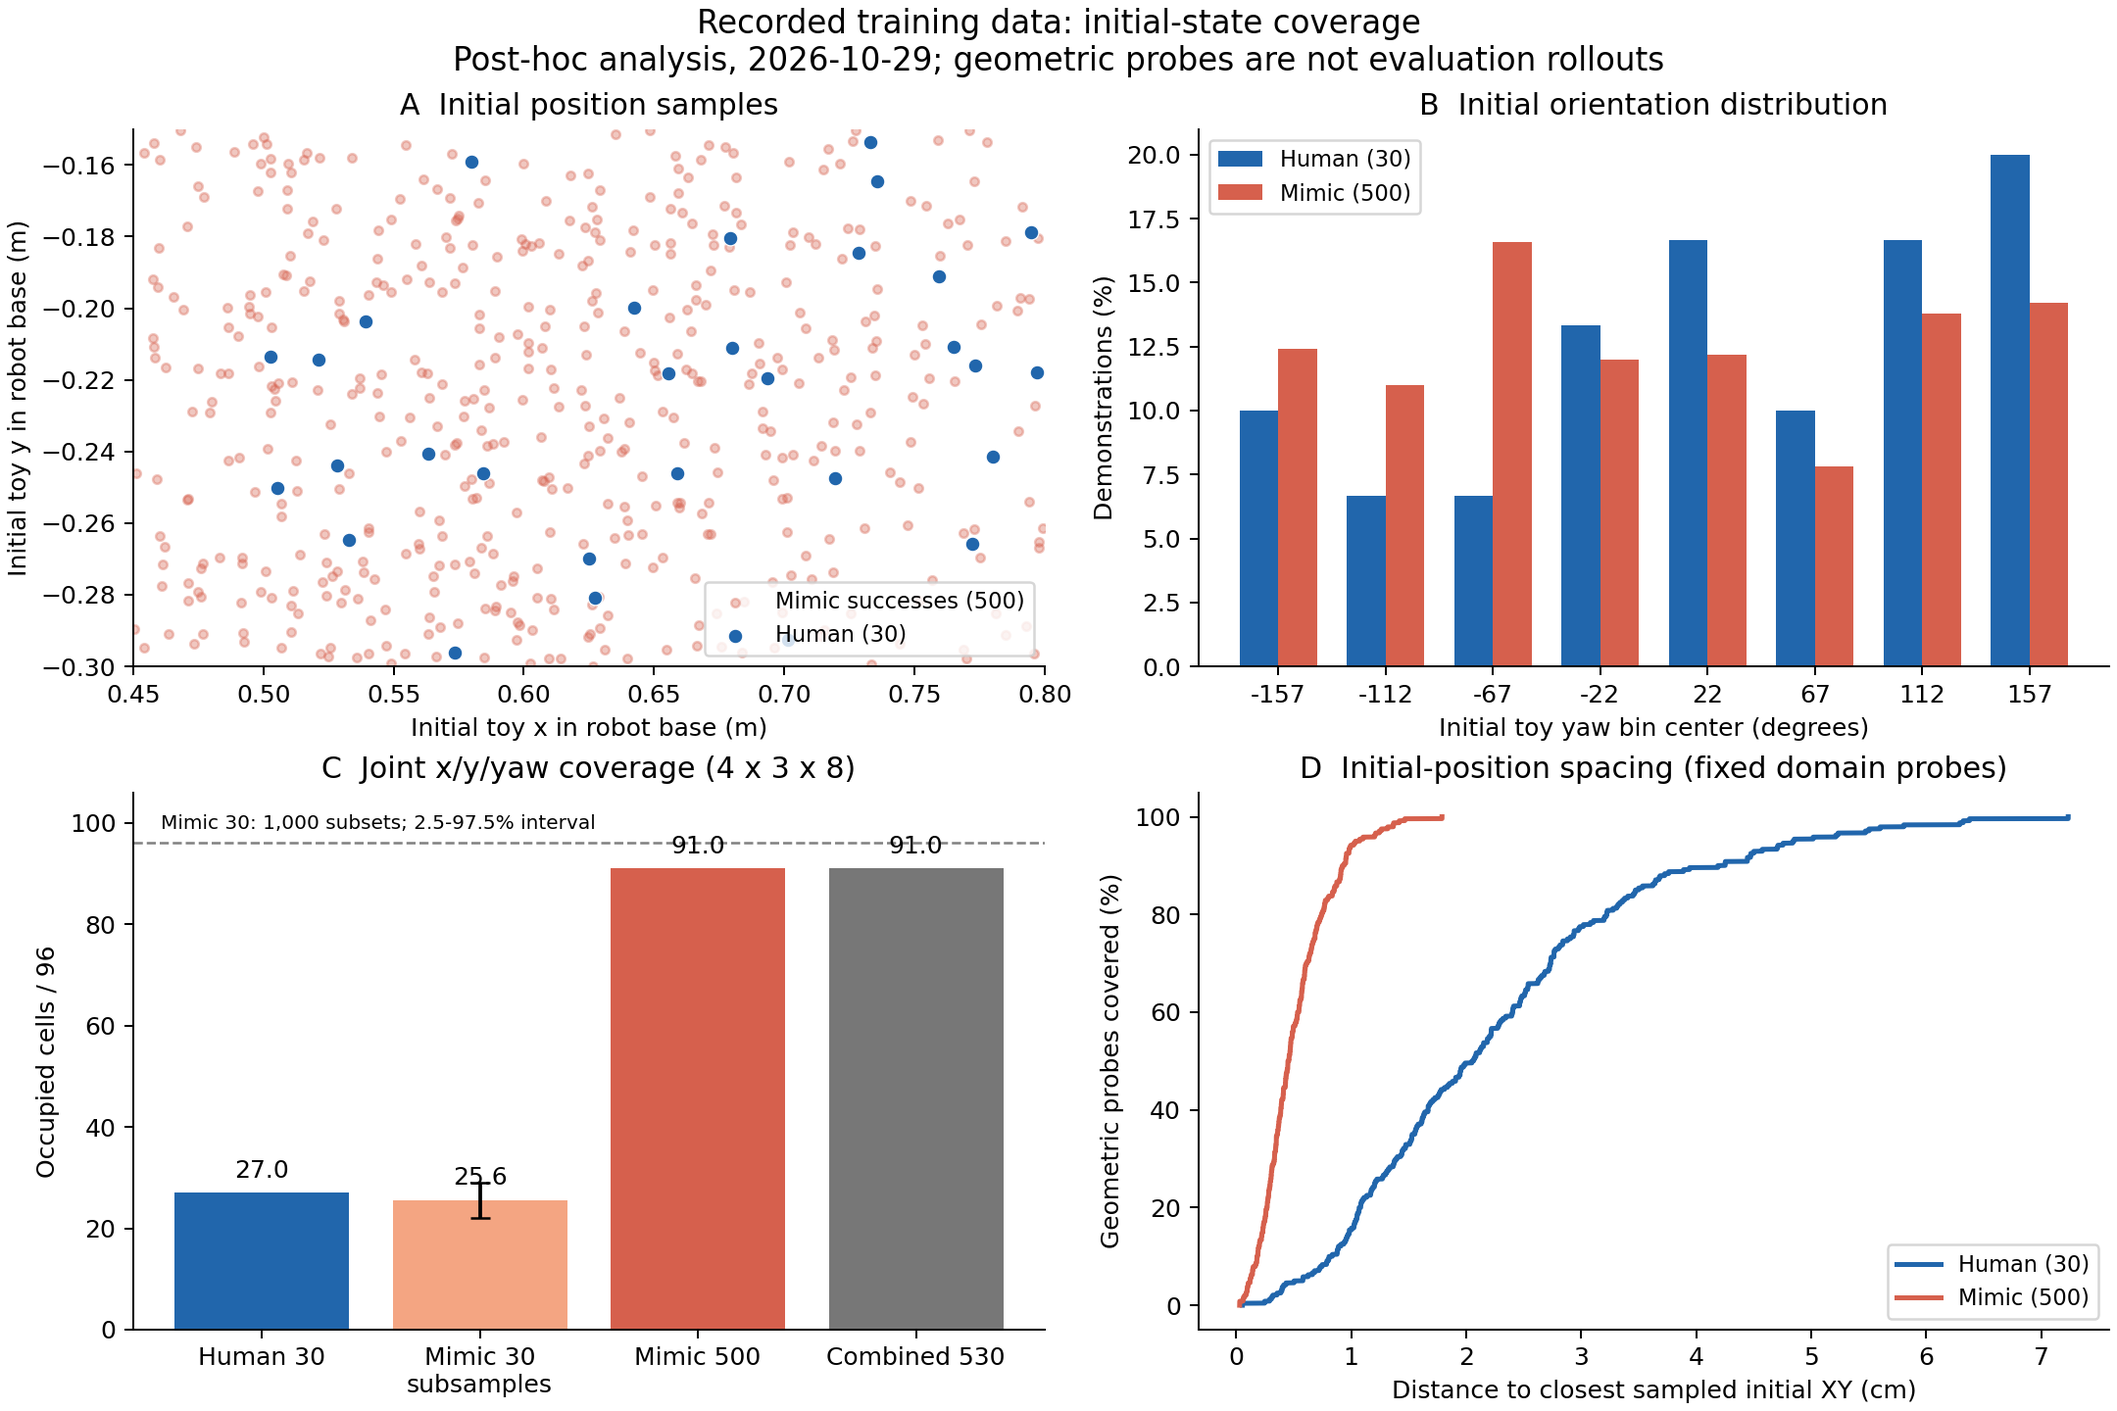
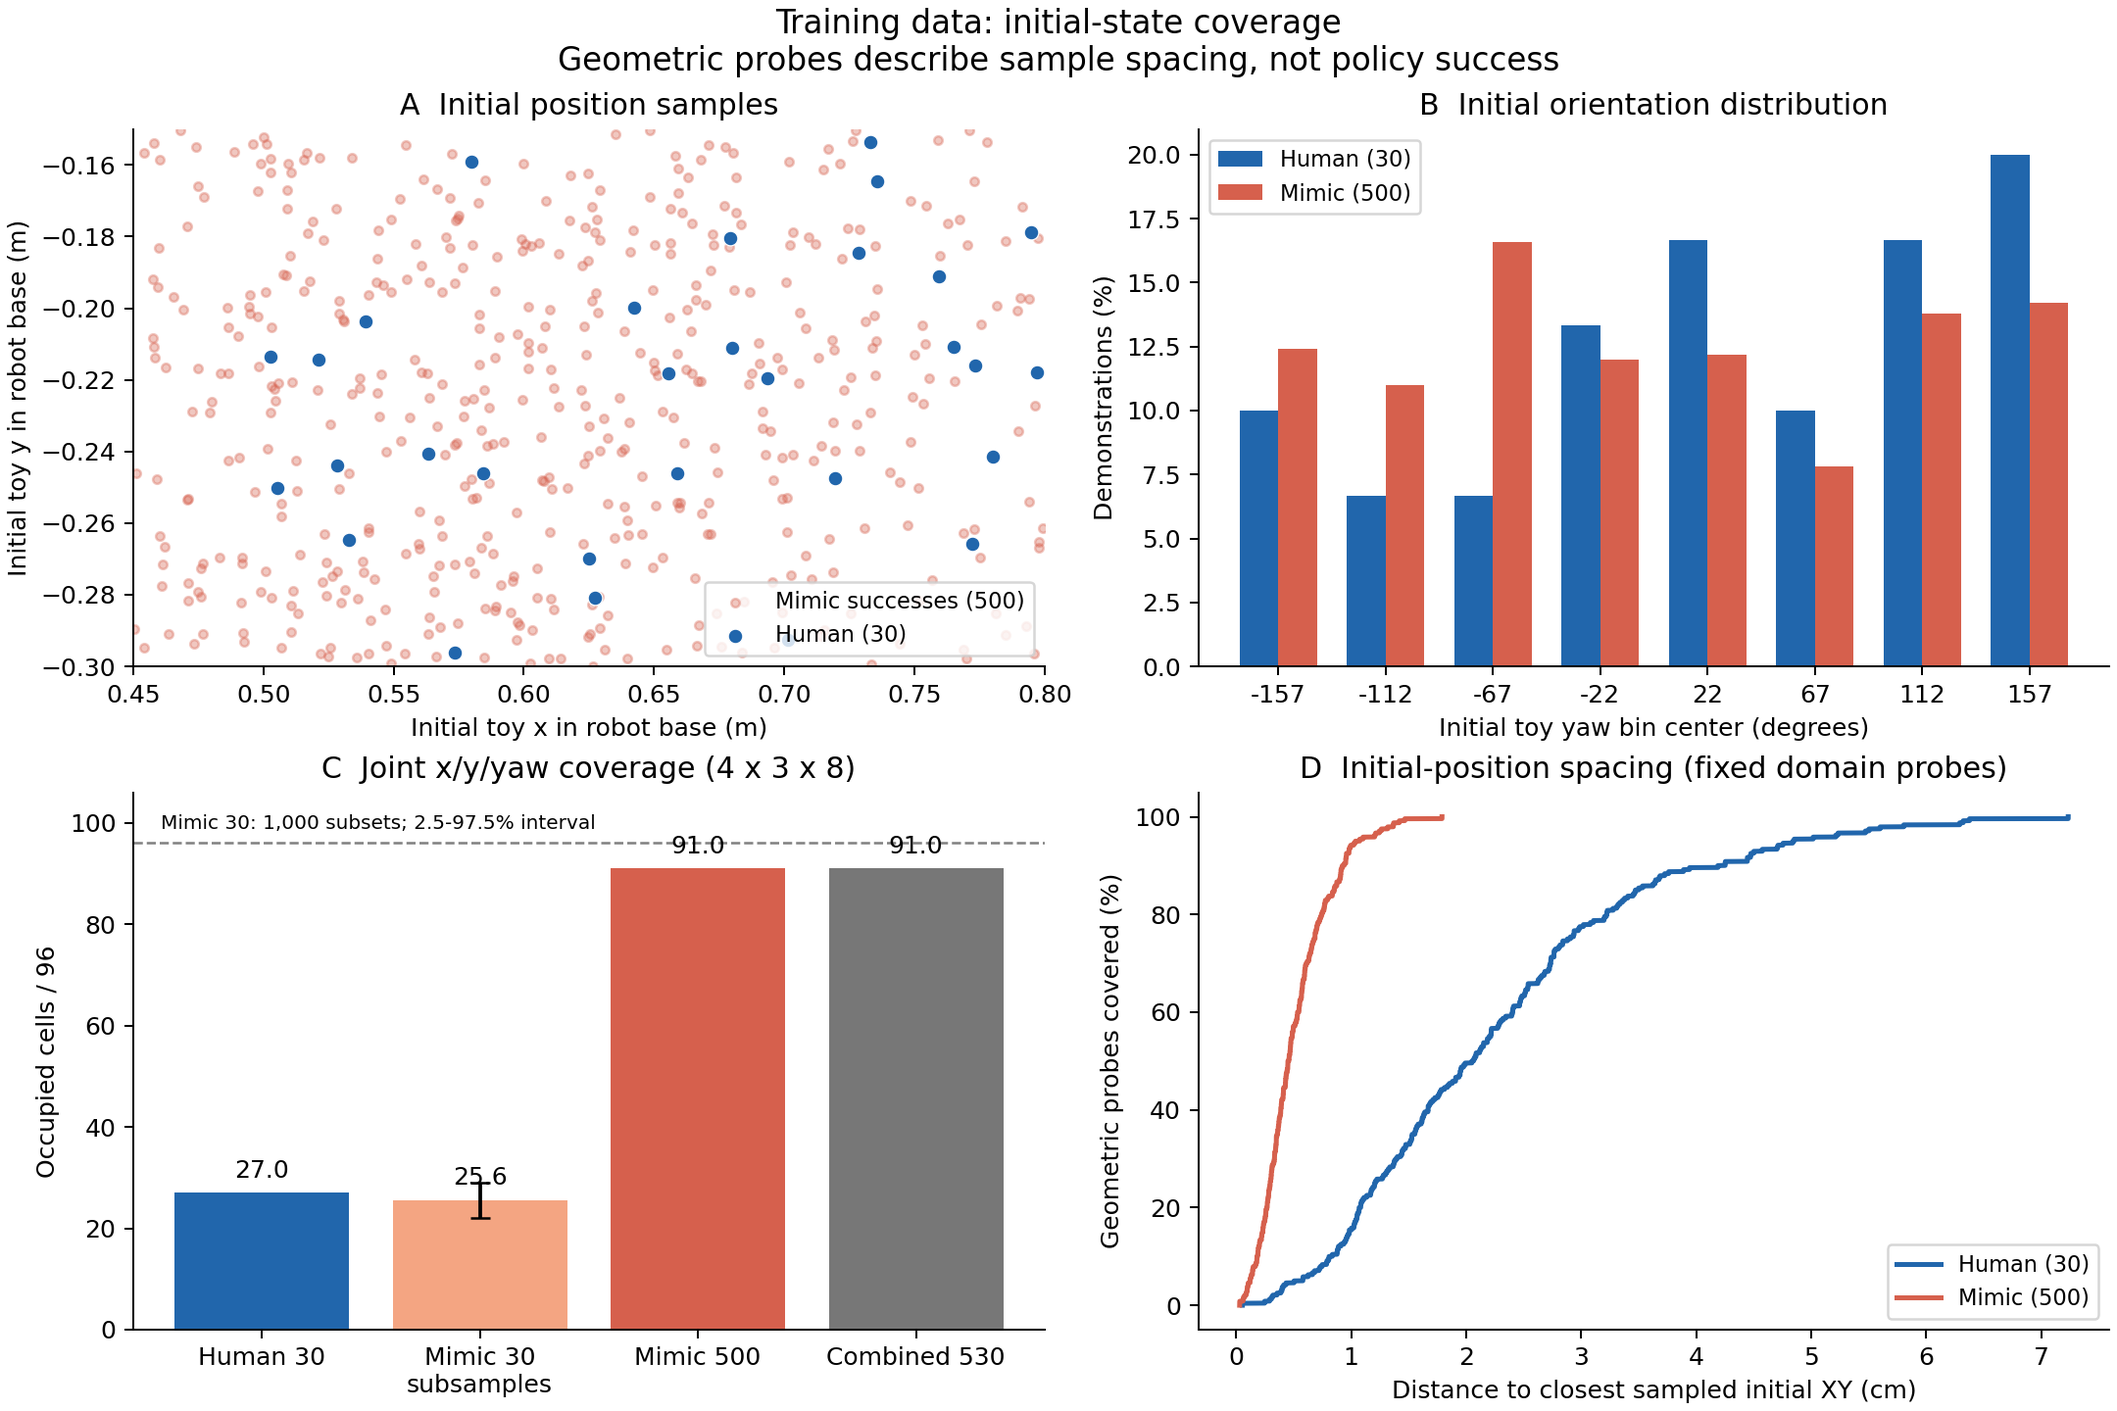
Unify research narrative and remove editorial chronology

Changed region(s): [[0.2171, 0.0, 0.7755, 0.0625]]

diff --git a/human_study/analysis/analyze_demonstrations.py b/human_study/analysis/analyze_demonstrations.py
@@ -266,7 +266,7 @@ def main():
         ax.plot(values,np.arange(1,len(values)+1)/len(values)*100,color=color,label=label,lw=2)
     ax.set(xlabel="Distance to closest sampled initial XY (cm)", ylabel="Geometric probes covered (%)", title="D  Initial-position spacing (fixed domain probes)")
     ax.legend(fontsize=9)
-    fig.suptitle("Recorded training data: initial-state coverage\nPost-hoc analysis, 2026-10-29; geometric probes are not evaluation rollouts", fontsize=13)
+    fig.suptitle("Training data: initial-state coverage\nGeometric probes describe sample spacing, not policy success", fontsize=13)
     fig.savefig(out/"initial_pose_coverage.png",dpi=180)
     plt.close(fig)
 

diff --git a/human_study/video_analysis/README.md b/human_study/video_analysis/README.md
@@ -1,6 +1,6 @@
 # Baseline 녹화 영상 기반 실패 진단
 
-기존 Baseline 녹화 200개에서 사전에 정한 30개 표본을 분석했다. **27개에서는 안정적으로 물체를 들어 올리는 단계에 도달하지 못했다.** 세부적으로 접근 실패 1개, 파지 단계 실패 19개, 접근과 파지의 경계를 영상만으로 구분하기 어려운 사례 7개였다. 시각적 완료는 2개였고, 나머지 1개는 물체를 운반한 뒤 박스 뒤쪽 가장자리에서 놓는 장면이 있으나 최종 위치가 가려져 배치 결과를 확정하지 않았다.
+Baseline 녹화 200개에서 고정 간격으로 선정한 30개 표본을 분석했다. **27개에서는 안정적으로 물체를 들어 올리는 단계에 도달하지 못했다.** 세부적으로 접근 실패 1개, 파지 단계 실패 19개, 접근과 파지의 경계를 영상만으로 구분하기 어려운 사례 7개였다. 시각적 완료는 2개였고, 나머지 1개는 물체를 운반한 뒤 박스 뒤쪽 가장자리에서 놓는 장면이 있으나 최종 위치가 가려져 배치 결과를 확정하지 않았다.
 
 이는 표본 내부의 정성 진단이다. 30개 표본의 완료 비율을 전체 성공률로 보고하지 않는다. 공식 성공률은 별도로 기록된 100회 평가 로그에서 산출한다.
 
@@ -10,12 +10,11 @@
 
 ## 표본 선정과 자료 출처
 
-- 분석일: 2026년 10월 29일.
-- 원본: `IsaacLab_RS/videos/human30_seed101_eval42/`, `human30_seed111_eval42/`의 각 100개 MP4. 새로운 평가나 시뮬레이션은 실행하지 않았다.
-- 선정 규칙: 새 표본을 보기 전에 seed별 trial `[0, 7, 14, 21, 28, 35, 42, 50, 57, 64, 71, 78, 85, 92, 99]`를 고정했다. 전체 trial 구간에 걸친 체계적 표본이며 무작위 추출이 아니다. seed당 15개, 총 30개 파일을 검토했다.
-- 기존 첫 5개씩의 진단과 trial 0 두 개가 겹친다. 이번 통계는 이번 30개만 집계하며 기존 10개를 더해 중복 계산하지 않는다.
+- 원본: `IsaacLab_RS/videos/human30_seed101_eval42/`, `human30_seed111_eval42/`의 각 100개 MP4.
+- 선정 규칙: seed별 trial `[0, 7, 14, 21, 28, 35, 42, 50, 57, 64, 71, 78, 85, 92, 99]`를 사용했다. 전체 trial 구간에 걸친 체계적 표본이며 무작위 추출이 아니다. seed당 15개, 총 30개 파일을 검토했다.
+- 집계 단위: 선택한 영상 파일 하나를 사례 하나로 계산한다. 대표 그림이나 확대 프레임에 같은 영상이 여러 번 제시되어도 중복 집계하지 않는다.
 - 원본 파일 SHA-256 30개는 모두 다르다. 동일한 trial 번호여도 두 학습 seed의 영상이 동일한 파일이라는 뜻은 아니다.
-- 원본 촬영 명령과 당시 모델 출처는 [baseline_audit.json](../results/mimic500_20261028/baseline_audit.json)에 기록되어 있다. 당시 촬영은 `--video`를 사용했다. 공식 성공률 16/100·19/100을 기록한 후속 평가의 `run.json`에는 `video: false`가 명시되어 있다. **촬영 실행과 후속 평가의 trial 번호를 연결하지 않았다.**
+- 원본 촬영 명령과 모델 출처는 [baseline_audit.json](../results/mimic500_20261028/baseline_audit.json)에 기록되어 있다. 촬영 실행은 `--video`를 사용했고, 공식 성공률 16/100·19/100을 집계한 기록 평가의 `run.json`에는 `video: false`가 명시되어 있다. **촬영과 기록 평가는 별도 실행이므로 trial 번호를 연결하지 않는다.**
 - 현재 보존된 영상 디렉터리에는 최종 Mimic 정책의 녹화가 없다. 따라서 영상으로 증강 후 접근·파지 실패가 얼마나 감소했는지는 평가하지 않는다.
 
 각 영상에서 12개 균등 간격 프레임을 추출했다. 시작 프레임이 검은 trial이 있어 첫 표본은 frame 1을 사용했다. 1280×720 원본의 작업 영역 `(x=200, y=250, width=650, height=460)`을 잘라 손·장난감·박스를 확대했다. 빠른 접촉이나 물체 소실이 모호한 5개는 20개 추가 프레임을, 그중 2개는 원래 프레임 간격 또는 원래 해상도로 다시 검토했다. 모든 frame 번호, 시각, 해시와 자르기 범위는 manifest에 보존했다. 영상 길이만으로 성공 또는 실패를 판정하지 않았다.
@@ -44,7 +43,7 @@
 | seed 111 / trial 85 | 15.60초 물체 부근 접촉 표시 → 15.85–16.10초 물체가 박스 앞 테이블로 밀려남 → 이후 빈손 | 손이 물체 근처에 도달하는 것과 안정적 파지는 다르다. 마지막 정렬·접촉 상태에서 작은 오차가 다른 물체 상태로 이어지는 양상이다. |
 | seed 101 / trial 99 | 11.55–11.60초 물체 부근 접촉 → 11.65–11.80초 물체가 손에서 분리되어 테이블 앞쪽으로 빠르게 이동 | 물체가 보이지 않게 된 장면을 성공적인 파지로 오해하지 않도록 원래 20 fps 간격으로 확인했다. |
 | seed 101 / trial 57 | 16.25–19.70초 파지·운반 → 19.95–20.20초 박스 뒤쪽 가장자리에서 놓기 → 박스에 가림 | 배치 실패가 의심되는 반례다. 획득 이전 실패가 모든 실패를 설명한다고 결론내리지 않는다. 최종 위치는 불명으로 남긴다. |
-| seed 101 / trial 64 | 17.55초 들어 올림 → 19.50초 박스 위 운반 → 21.45초 열린 손 아래 물체가 박스 입구 안으로 내려감 | 동일한 Baseline에도 전체 순서를 수행하는 사례가 있다. 공식 성공 여부는 후속 평가의 같은 trial 번호에서 가져오지 않는다. |
+| seed 101 / trial 64 | 17.55초 들어 올림 → 19.50초 박스 위 운반 → 21.45초 열린 손 아래 물체가 박스 입구 안으로 내려감 | 동일한 Baseline에도 전체 순서를 수행하는 사례가 있다. 공식 성공 여부는 별도 기록 평가의 같은 trial 번호에서 가져오지 않는다. |
 
 물체를 밀어내는 순간(seed 111 / trial 85, 14.8–17.0초, 원래 속도):
 

diff --git a/human_study/protocol.md b/human_study/protocol.md
@@ -1,18 +1,18 @@
 # 연구 설계와 판정 기준
 
-학습·평가 실험과 기존 실패 진단을 정리한 문서다. 2026년 10월 29일의 데이터 분포 분석과 확대 영상 검토는 **결과를 얻은 뒤 수행한 사후 분석**으로 구분한다. 사후에 측정한 수치를 실험 전에 알고 있었다는 전제로 해석하지 않는다.
+사람 시범의 행동·상태 분포, Baseline 실패 영상, 증강 전후의 통제 실험을 종합해 원인 가설과 개선 효과를 검토한다.
 
 ## 수집 규칙과 진단 대상
 
 키보드 시범은 접근 → 정렬·그리퍼 회전 → 하강·파지 → 들어 올리기·운반 → 배치의 순서를 기준으로 수집했다. 원본 사람 시범 30개를 두 학습 조건에 동일하게 사용한다. 일관된 동작 순서는 시범 간 행동 편차를 줄이기 위한 수집 원칙이며, 다양한 상대 위치를 포괄하는 데이터 분포와는 구분한다.
 
-실험 당시에는 Baseline의 seed별 trial 0–4, 총 10개를 진단했다. 물체 획득 이전의 실패가 관찰되어 접근·정렬·파지를 우선 문제 구간으로 선정했다. 이후 기존 녹화 전체 구간에서 seed별 15개를 고정 간격으로 선택해 총 30개를 사후 검토했다. 획득 이전 실패 27개, 시각적 완료 2개, 배치 결과 불명 1개를 관찰했다. 두 표본은 일부 중복되므로 40개의 독립 사례로 합산하지 않는다. 단계별 기준과 사례는 [영상 분석](video_analysis/README.md)에 있다.
+Baseline 녹화 전체 구간에서 seed별 15개를 고정 간격으로 선택해 총 30개를 검토했다. 획득 이전 실패 27개, 시각적 완료 2개, 배치 결과 불명 1개를 관찰하여 접근·정렬·파지를 우선 문제 구간으로 다룬다. 단계별 기준과 사례는 [영상 분석](video_analysis/README.md)에 있다.
 
 ## 원인 가설 H1
 
 사람 시범 30개로는 위치·방향 조합에 대한 학습 사례가 부족해, 접근·정렬·파지 구간의 일반화가 제한된다는 가설을 검토한다. 물체 기준으로 변환한 Mimic 성공 시범을 추가하면 같은 학습량에서도 성공률이 높아질 것으로 예상한다.
 
-원본 수집 규칙을 유지하면서 증강을 추가한다. 개폐 순서의 일관성만으로 시범 품질을 보증하지 않고, 초기 위치·방향 분포와 동수 부분집합을 분석해 가설과 맞지 않는 근거도 함께 확인한다. 전체 점유 구간 수는 사람 30개가 동수 Mimic보다 적지 않았지만, 낮은 x 영역의 국소 공백은 확인되었다. 사후 분석이 지지하는 설명은 제한된 표본 수에서 일부 위치와 위치·방향 조합의 밀도가 낮다는 것이다. [데이터 분석](analysis/data_diagnosis.md)
+원본 수집 규칙을 유지하면서 증강을 추가한다. 개폐 순서의 일관성만으로 시범 품질을 보증하지 않고, 초기 위치·방향 분포와 동수 부분집합을 분석해 가설과 맞지 않는 근거도 함께 확인한다. 전체 점유 구간 수는 사람 30개가 동수 Mimic보다 적지 않았지만, 낮은 x 영역의 국소 공백은 확인되었다. 분석이 지지하는 설명은 제한된 표본 수에서 일부 위치와 위치·방향 조합의 밀도가 낮다는 것이다. [데이터 분석](analysis/data_diagnosis.md)
 
 ## 통제 조건
 
@@ -48,8 +48,8 @@
 
 판정 기준은 개별 rollout의 동일 궤적이나 통계적 유의성을 가정하지 않는다. 성공률 증가만으로 상대 위치 다양성 부족이 유일한 원인이라고 단정하지 않으며, 비공개 최종 평가 성능도 추정하지 않는다. 실측 결과와 판정은 [results.md](results.md)에 제시한다.
 
-## 사후 분석의 범위
+## 분석 방법과 해석 범위
 
-원본 HDF5의 행동·관측과 기존 녹화·훈련 로그를 읽어 분석한다. 데이터나 환경을 변경하지 않으며 학습·평가 rollout을 추가하지 않는다. 시범당 초기 관측 한 개로 장난감 x/y/yaw 구간 점유를 계산하고, 같은 30개로 맞춘 Mimic 부분집합과 비교한다. 구간 수와 거리·각도 기준의 민감도를 함께 기록한다.
+원본 HDF5의 행동·관측, 녹화 영상, 훈련 로그를 분석 자료로 사용한다. 시범당 초기 관측 한 개로 장난감 x/y/yaw 구간 점유를 계산하고, 같은 30개로 맞춘 Mimic 부분집합과 비교한다. 구간 수와 거리·각도 기준의 민감도를 함께 기록한다.
 
-영상은 공식 성공률 재평가와 별도 실행이므로 trial별 라벨을 연결하지 않는다. 증강 정책 영상과 평가 상태 궤적이 없어 단계별 실패 감소량이나 실패 상태의 학습 분포 이탈 정도는 계산하지 않는다. 증강 추가의 성능 효과와 상태 다양성이라는 원인 설명의 지지 수준을 구분한다.
+영상은 공식 성공률 평가와 별도 실행이므로 trial별 라벨을 연결하지 않는다. 증강 정책 영상과 평가 상태 궤적이 없어 단계별 실패 감소량이나 실패 상태의 학습 분포 이탈 정도는 계산하지 않는다. 증강 추가의 성능 효과와 상태 다양성이라는 원인 설명의 지지 수준을 구분한다.

diff --git a/README.md b/README.md
@@ -25,7 +25,7 @@
 
 ## 원인 해석을 뒷받침하는 데이터
 
-2026년 10월 29일, 기존 자료를 사후 분석했다. 이 분석을 위해 학습이나 평가 rollout을 추가하지 않았다.
+사람 시범 30개와 Mimic 성공 시범 500개의 행동·초기 상태 분포를 비교하고, 녹화 영상과 학습 로그를 함께 검토했다.
 
 | 확인 항목 | 측정 결과 | 해석 |
 |---|---|---|
@@ -46,7 +46,7 @@
 
 ![Baseline의 빈손 이탈·물체 밀어냄·시각적 완료 장면](human_study/video_analysis/baseline_visual_evidence.jpg)
 
-세 행 모두 기존 **Baseline**의 장면이다. 공식 성공률은 이후 별도 실행에서 집계했으므로, 이 영상 표본의 완료 수를 성공률로 사용하지 않았다. 증강 정책 영상은 남아 있지 않다. [표본 선정·단계별 판정](human_study/video_analysis/README.md), [파지 실패 GIF](human_study/video_analysis/clips/contact_displacement.gif), [결과가 불확실한 배치 GIF](human_study/video_analysis/clips/placement_ambiguity.gif)
+세 행 모두 기존 **Baseline**의 장면이다. 공식 성공률은 영상 촬영과 별도 실행에서 집계했으므로, 이 영상 표본의 완료 수를 성공률로 사용하지 않았다. 증강 정책 영상은 남아 있지 않다. [표본 선정·단계별 판정](human_study/video_analysis/README.md), [파지 실패 GIF](human_study/video_analysis/clips/contact_displacement.gif), [결과가 불확실한 배치 GIF](human_study/video_analysis/clips/placement_ambiguity.gif)
 
 ## 제출 파일
 

diff --git a/human_study/analysis/data_diagnosis.md b/human_study/analysis/data_diagnosis.md
@@ -1,6 +1,6 @@
-# 기존 시범 데이터의 사후 정량 진단
+# 시범 데이터의 행동 일관성과 상태 분포 분석
 
-분석일: 2026-10-29. 학습과 평가가 완료된 뒤 보존된 HDF5를 읽어 수행한 기술통계 분석이다. 추가 시범 생성, 학습 또는 시뮬레이터 rollout을 수행하지 않았다. 분석 대상은 학습에 사용한 사람 시범 30개와 Mimic 성공 시범 500개이며, 생성 실패 시범 889개는 이 분석에 포함하지 않았다.
+학습에 사용한 사람 시범 30개와 Mimic 성공 시범 500개의 HDF5에서 행동·관측을 추출해 기술통계를 계산했다. 생성 실패 시범 889개는 분석 대상에 포함하지 않았다.
 
 ## 분석 결과
 

diff --git a/human_study/reproduce.md b/human_study/reproduce.md
@@ -51,7 +51,7 @@ python human_study/scripts/summarize_comparison.py \
 
 실행 당시 기록 JSON의 절대 경로는 당시 실험 파일의 식별 정보다. 실제 배포 모델 경로는 `models/manifest.json`과 평가 명령어를 기준으로 한다.
 
-### 기존 자료의 사후 분석
+### 데이터·영상 분석 재현
 
 원본 HDF5와 Release의 Mimic 성공 데이터를 준비한 뒤 다음 명령으로 530개 시범의 행동·초기 상태 분포, 동수 부분집합 비교, 분석 기준의 민감도와 그림을 재생성할 수 있다. NumPy, SciPy, h5py, Matplotlib이 필요하다.
 
